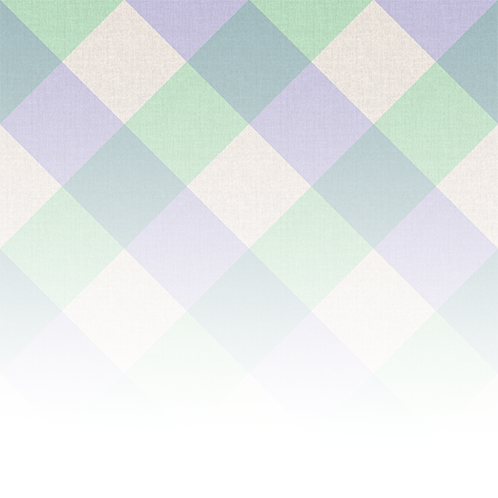
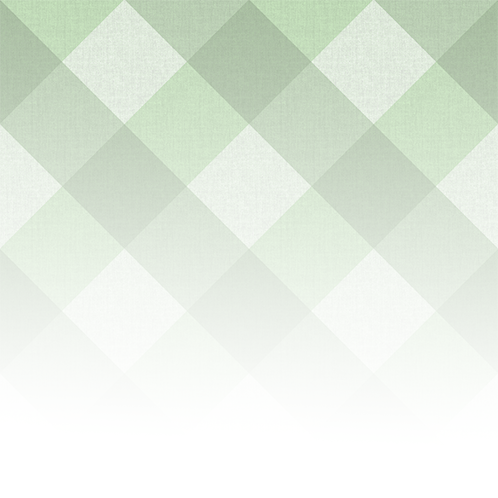
[feat] Green redesign

diff --git a/public/js/jquery.waypoints.min.js b/public/js/jquery.waypoints.min.js
@@ -1,0 +1,7 @@
+/*!
+Waypoints - 4.0.1
+Copyright © 2011-2016 Caleb Troughton
+Licensed under the MIT license.
+https://github.com/imakewebthings/waypoints/blob/master/licenses.txt
+*/
+!function(){"use strict";function t(o){if(!o)throw new Error("No options passed to Waypoint constructor");if(!o.element)throw new Error("No element option passed to Waypoint constructor");if(!o.handler)throw new Error("No handler option passed to Waypoint constructor");this.key="waypoint-"+e,this.options=t.Adapter.extend({},t.defaults,o),this.element=this.options.element,this.adapter=new t.Adapter(this.element),this.callback=o.handler,this.axis=this.options.horizontal?"horizontal":"vertical",this.enabled=this.options.enabled,this.triggerPoint=null,this.group=t.Group.findOrCreate({name:this.options.group,axis:this.axis}),this.context=t.Context.findOrCreateByElement(this.options.context),t.offsetAliases[this.options.offset]&&(this.options.offset=t.offsetAliases[this.options.offset]),this.group.add(this),this.context.add(this),i[this.key]=this,e+=1}var e=0,i={};t.prototype.queueTrigger=function(t){this.group.queueTrigger(this,t)},t.prototype.trigger=function(t){this.enabled&&this.callback&&this.callback.apply(this,t)},t.prototype.destroy=function(){this.context.remove(this),this.group.remove(this),delete i[this.key]},t.prototype.disable=function(){return this.enabled=!1,this},t.prototype.enable=function(){return this.context.refresh(),this.enabled=!0,this},t.prototype.next=function(){return this.group.next(this)},t.prototype.previous=function(){return this.group.previous(this)},t.invokeAll=function(t){var e=[];for(var o in i)e.push(i[o]);for(var n=0,r=e.length;r>n;n++)e[n][t]()},t.destroyAll=function(){t.invokeAll("destroy")},t.disableAll=function(){t.invokeAll("disable")},t.enableAll=function(){t.Context.refreshAll();for(var e in i)i[e].enabled=!0;return this},t.refreshAll=function(){t.Context.refreshAll()},t.viewportHeight=function(){return window.innerHeight||document.documentElement.clientHeight},t.viewportWidth=function(){return document.documentElement.clientWidth},t.adapters=[],t.defaults={context:window,continuous:!0,enabled:!0,group:"default",horizontal:!1,offset:0},t.offsetAliases={"bottom-in-view":function(){return this.context.innerHeight()-this.adapter.outerHeight()},"right-in-view":function(){return this.context.innerWidth()-this.adapter.outerWidth()}},window.Waypoint=t}(),function(){"use strict";function t(t){window.setTimeout(t,1e3/60)}function e(t){this.element=t,this.Adapter=n.Adapter,this.adapter=new this.Adapter(t),this.key="waypoint-context-"+i,this.didScroll=!1,this.didResize=!1,this.oldScroll={x:this.adapter.scrollLeft(),y:this.adapter.scrollTop()},this.waypoints={vertical:{},horizontal:{}},t.waypointContextKey=this.key,o[t.waypointContextKey]=this,i+=1,n.windowContext||(n.windowContext=!0,n.windowContext=new e(window)),this.createThrottledScrollHandler(),this.createThrottledResizeHandler()}var i=0,o={},n=window.Waypoint,r=window.onload;e.prototype.add=function(t){var e=t.options.horizontal?"horizontal":"vertical";this.waypoints[e][t.key]=t,this.refresh()},e.prototype.checkEmpty=function(){var t=this.Adapter.isEmptyObject(this.waypoints.horizontal),e=this.Adapter.isEmptyObject(this.waypoints.vertical),i=this.element==this.element.window;t&&e&&!i&&(this.adapter.off(".waypoints"),delete o[this.key])},e.prototype.createThrottledResizeHandler=function(){function t(){e.handleResize(),e.didResize=!1}var e=this;this.adapter.on("resize.waypoints",function(){e.didResize||(e.didResize=!0,n.requestAnimationFrame(t))})},e.prototype.createThrottledScrollHandler=function(){function t(){e.handleScroll(),e.didScroll=!1}var e=this;this.adapter.on("scroll.waypoints",function(){(!e.didScroll||n.isTouch)&&(e.didScroll=!0,n.requestAnimationFrame(t))})},e.prototype.handleResize=function(){n.Context.refreshAll()},e.prototype.handleScroll=function(){var t={},e={horizontal:{newScroll:this.adapter.scrollLeft(),oldScroll:this.oldScroll.x,forward:"right",backward:"left"},vertical:{newScroll:this.adapter.scrollTop(),oldScroll:this.oldScroll.y,forward:"down",backward:"up"}};for(var i in e){var o=e[i],n=o.newScroll>o.oldScroll,r=n?o.forward:o.backward;for(var s in this.waypoints[i]){var a=this.waypoints[i][s];if(null!==a.triggerPoint){var l=o.oldScroll<a.triggerPoint,h=o.newScroll>=a.triggerPoint,p=l&&h,u=!l&&!h;(p||u)&&(a.queueTrigger(r),t[a.group.id]=a.group)}}}for(var c in t)t[c].flushTriggers();this.oldScroll={x:e.horizontal.newScroll,y:e.vertical.newScroll}},e.prototype.innerHeight=function(){return this.element==this.element.window?n.viewportHeight():this.adapter.innerHeight()},e.prototype.remove=function(t){delete this.waypoints[t.axis][t.key],this.checkEmpty()},e.prototype.innerWidth=function(){return this.element==this.element.window?n.viewportWidth():this.adapter.innerWidth()},e.prototype.destroy=function(){var t=[];for(var e in this.waypoints)for(var i in this.waypoints[e])t.push(this.waypoints[e][i]);for(var o=0,n=t.length;n>o;o++)t[o].destroy()},e.prototype.refresh=function(){var t,e=this.element==this.element.window,i=e?void 0:this.adapter.offset(),o={};this.handleScroll(),t={horizontal:{contextOffset:e?0:i.left,contextScroll:e?0:this.oldScroll.x,contextDimension:this.innerWidth(),oldScroll:this.oldScroll.x,forward:"right",backward:"left",offsetProp:"left"},vertical:{contextOffset:e?0:i.top,contextScroll:e?0:this.oldScroll.y,contextDimension:this.innerHeight(),oldScroll:this.oldScroll.y,forward:"down",backward:"up",offsetProp:"top"}};for(var r in t){var s=t[r];for(var a in this.waypoints[r]){var l,h,p,u,c,d=this.waypoints[r][a],f=d.options.offset,w=d.triggerPoint,y=0,g=null==w;d.element!==d.element.window&&(y=d.adapter.offset()[s.offsetProp]),"function"==typeof f?f=f.apply(d):"string"==typeof f&&(f=parseFloat(f),d.options.offset.indexOf("%")>-1&&(f=Math.ceil(s.contextDimension*f/100))),l=s.contextScroll-s.contextOffset,d.triggerPoint=Math.floor(y+l-f),h=w<s.oldScroll,p=d.triggerPoint>=s.oldScroll,u=h&&p,c=!h&&!p,!g&&u?(d.queueTrigger(s.backward),o[d.group.id]=d.group):!g&&c?(d.queueTrigger(s.forward),o[d.group.id]=d.group):g&&s.oldScroll>=d.triggerPoint&&(d.queueTrigger(s.forward),o[d.group.id]=d.group)}}return n.requestAnimationFrame(function(){for(var t in o)o[t].flushTriggers()}),this},e.findOrCreateByElement=function(t){return e.findByElement(t)||new e(t)},e.refreshAll=function(){for(var t in o)o[t].refresh()},e.findByElement=function(t){return o[t.waypointContextKey]},window.onload=function(){r&&r(),e.refreshAll()},n.requestAnimationFrame=function(e){var i=window.requestAnimationFrame||window.mozRequestAnimationFrame||window.webkitRequestAnimationFrame||t;i.call(window,e)},n.Context=e}(),function(){"use strict";function t(t,e){return t.triggerPoint-e.triggerPoint}function e(t,e){return e.triggerPoint-t.triggerPoint}function i(t){this.name=t.name,this.axis=t.axis,this.id=this.name+"-"+this.axis,this.waypoints=[],this.clearTriggerQueues(),o[this.axis][this.name]=this}var o={vertical:{},horizontal:{}},n=window.Waypoint;i.prototype.add=function(t){this.waypoints.push(t)},i.prototype.clearTriggerQueues=function(){this.triggerQueues={up:[],down:[],left:[],right:[]}},i.prototype.flushTriggers=function(){for(var i in this.triggerQueues){var o=this.triggerQueues[i],n="up"===i||"left"===i;o.sort(n?e:t);for(var r=0,s=o.length;s>r;r+=1){var a=o[r];(a.options.continuous||r===o.length-1)&&a.trigger([i])}}this.clearTriggerQueues()},i.prototype.next=function(e){this.waypoints.sort(t);var i=n.Adapter.inArray(e,this.waypoints),o=i===this.waypoints.length-1;return o?null:this.waypoints[i+1]},i.prototype.previous=function(e){this.waypoints.sort(t);var i=n.Adapter.inArray(e,this.waypoints);return i?this.waypoints[i-1]:null},i.prototype.queueTrigger=function(t,e){this.triggerQueues[e].push(t)},i.prototype.remove=function(t){var e=n.Adapter.inArray(t,this.waypoints);e>-1&&this.waypoints.splice(e,1)},i.prototype.first=function(){return this.waypoints[0]},i.prototype.last=function(){return this.waypoints[this.waypoints.length-1]},i.findOrCreate=function(t){return o[t.axis][t.name]||new i(t)},n.Group=i}(),function(){"use strict";function t(t){this.$element=e(t)}var e=window.jQuery,i=window.Waypoint;e.each(["innerHeight","innerWidth","off","offset","on","outerHeight","outerWidth","scrollLeft","scrollTop"],function(e,i){t.prototype[i]=function(){var t=Array.prototype.slice.call(arguments);return this.$element[i].apply(this.$element,t)}}),e.each(["extend","inArray","isEmptyObject"],function(i,o){t[o]=e[o]}),i.adapters.push({name:"jquery",Adapter:t}),i.Adapter=t}(),function(){"use strict";function t(t){return function(){var i=[],o=arguments[0];return t.isFunction(arguments[0])&&(o=t.extend({},arguments[1]),o.handler=arguments[0]),this.each(function(){var n=t.extend({},o,{element:this});"string"==typeof n.context&&(n.context=t(this).closest(n.context)[0]),i.push(new e(n))}),i}}var e=window.Waypoint;window.jQuery&&(window.jQuery.fn.waypoint=t(window.jQuery)),window.Zepto&&(window.Zepto.fn.waypoint=t(window.Zepto))}();

diff --git a/index.html b/index.html
@@ -9,12 +9,18 @@
         crossorigin="anonymous">
     <link href="https://fonts.googleapis.com/css?family=Open+Sans" rel="stylesheet">
     <link rel="stylesheet" href="public/css/styles.css">
+    <script defer src="https://use.fontawesome.com/releases/v5.0.9/js/solid.js" integrity="sha384-P4tSluxIpPk9wNy8WSD8wJDvA8YZIkC6AQ+BfAFLXcUZIPQGu4Ifv4Kqq+i2XzrM"
+        crossorigin="anonymous"></script>
+    <script defer src="https://use.fontawesome.com/releases/v5.0.9/js/brands.js" integrity="sha384-qJKAzpOXfvmSjzbmsEtlYziSrpVjh5ROPNqb8UZ60myWy7rjTObnarseSKotmJIx"
+        crossorigin="anonymous"></script>
+    <script defer src="https://use.fontawesome.com/releases/v5.0.9/js/fontawesome.js" integrity="sha384-2IUdwouOFWauLdwTuAyHeMMRFfeyy4vqYNjodih+28v2ReC+8j+sLF9cK339k5hY"
+        crossorigin="anonymous"></script>
     <title>SABOYA</title>
 </head>
 
 <body>
     <nav class="navbar navbar-expand-lg fixed-top">
-        <a class="navbar-brand" href="#">
+        <a class="navbar-brand" href="#home">
             <img src="img/logo_only_white.png" height="32">
         </a>
         <button class="navbar-toggler" type="button" data-toggle="collapse" data-target="#navbarNavDropdown" aria-controls="navbarNavDropdown"
@@ -24,21 +30,21 @@
         <div class="collapse navbar-collapse ml-auto" id="navbarNavDropdown">
             <ul class="navbar-nav ml-auto float-right">
                 <li class="nav-item">
-                    <a class="nav-link" href="#">Home</a>
+                    <a id="home-link" class="nav-link nav__link" href="#home">Home</a>
                 </li>
                 <li class="nav-item">
-                    <a class="nav-link" href="#">Works</a>
+                    <a id="services-link" class="nav-link nav__link" href="#services">Services</a>
                 </li>
                 <li class="nav-item">
-                    <a class="nav-link" href="#">About</a>
+                    <a id="portfolio-link" class="nav-link nav__link" href="#portfolio">Portfolio</a>
                 </li>
                 <li class="nav-item">
-                    <a class="nav-link" href="#">Contact</a>
+                    <a id="contact-link" class="nav-link nav__link" href="#contact">Contact</a>
                 </li>
             </ul>
         </div>
     </nav>
-    <section class="section section--main section--centered">
+    <section id="home" class="section section--main section--centered">
         <div class="container">
             <div class="row justify-content-center">
                 <div class="col-md-8">
@@ -48,7 +54,7 @@
             <div class="row justify-content-center section__description">
                 <div class="col-md-8">
                     <div class="effect__fade-in effect__slide-up">
-                        <h1>I need money, you need a website.</h1>
+                        <h1>Web-based solutions, tailored to you</h1>
                         <p>Lorem ipsum dolor sit amet, consectetur adipiscing elit, sed do eiusmod tempor incididunt ut labore
                             et dolore magna aliqua. Ut enim ad minim veniam, quis nostrud exercitation ullamco laboris nisi
                             ut aliquip ex ea commodo consequat.</p>
@@ -57,29 +63,30 @@
             </div>
         </div>
     </section>
-    <section class="section section--green">
+    <section id="services" class="section section--white section--centered">
         <div class="container">
-            <div class="row">
-                <div class="col-md-5 align-self-center">
-                    <h2>Lorem ipsum valid</h2>
-                    <p>"Lorem ipsum dolor sit amet, consectetur adipiscing elit, sed do eiusmod tempor incididunt ut labore
-                        et dolore magna aliqua. Ut enim ad minim veniam, quis nostrud exercitation ullamco laboris nisi ut
-                        aliquip ex ea commodo consequat. Duis aute irure dolor in reprehenderit in voluptate velit esse cillum
-                        dolore eu fugiat nulla pariatur. Excepteur sint occaecat cupidatat non proident, sunt in culpa qui
-                        officia deserunt mollit anim id est laborum."</p>
-                </div>
-                <div class="col-md-7">
-                    <img id="laptop" class="section__image effect__appear effect__appear--left" src="img/macbook.png">
-                </div>
-            </div>
-        </div>
-    </section>
-    <section class="section section--purple">
-        <div class="container">
+            <h2 class="section__title">SERVICES</h2>
             <div class="row justify-content-center">
                 <div class="col-md-3">
-                    <img id="phone" class="section__image effect__appear effect__appear--right" src="img/phone.png">
+                    <div id="back-end-icon" class="effect__appear effect__appear--left">
+                        <i class="fas fa-server fa-5x section__icon" data-fa-transform="shrink-4"></i>
+                        <p class="section__text">Back-end development</p>
+                    </div>
                 </div>
+                <div class="col-md-3">
+                    <div id="front-end-icon" class="effect__appear effect__appear--right">
+                        <i class="fas fa-desktop fa-5x section__icon" data-fa-transform="shrink-4"></i>
+                        <p class="section__text">Front-end development</p>
+                    </div>
+                </div>
+            </div>
+        </div>
+        </div>
+    </section>
+    <section id="portfolio" class="section section--green">
+        <div class="container">
+            <h2 class="section__title">PORTFOLIO</h2>
+            <div class="row justify-content-center">
                 <div class="col-md-6 align-self-center">
                     <h2>Lorem ipsum valid</h2>
                     <p>"Lorem ipsum dolor sit amet, consectetur adipiscing elit, sed do eiusmod tempor incididunt ut labore
@@ -91,15 +98,19 @@
             </div>
         </div>
     </section>
-    <section class="section section--centered section--lime">
+    <section id="contact" class="section section--white">
         <div class="container">
             <div class="row justify-content-center">
-                <div class="col-md-6 align-self-center">
-                    <div id="middle" class="effect__appear effect__appear--left">
-                        <h2>Title in the middle</h2>
-                        <p>Lorem ipsum dolor sit amet, consectetur adipiscing elit, sed do eiusmod tempor incididunt ut labore
-                            et dolore magna aliqua.</p>
-                    </div>
+                <div class="col-md-3  align-self-center">
+                    <h2 class="section__title">CONTACT</h2>
+                    <p>
+                        <a href="mailto:contact@saboya.com" class="section__link--green">
+                            <i class="fas fa-envelope"></i> contact@saboya.com</a>
+                    </p>
+                    <p>
+                        <a href="#" class="section__link--green">
+                            <i class="fab fa-skype"></i> saboya</a>
+                    </p>
                 </div>
             </div>
         </div>

diff --git a/public/js/general.js b/public/js/general.js
@@ -1,3 +1,14 @@
+$(document).on("click", 'a[href^="#"]', function(event) {
+  event.preventDefault();
+
+  $("html, body").animate(
+    {
+      scrollTop: $($.attr(this, "href")).offset().top
+    },
+    500
+  );
+});
+
 window.onload = function() {
   $(".effect__fade-in")
     .css("visibility", "visible")
@@ -13,45 +24,41 @@ window.onload = function() {
 };
 
 function appearLeft() {
-    $("#" + this.element.id)
-      .animate(
-        {
-          opacity: 1,
-          left: "0%"
-        },
-        { duration: 2000, queue: false }
-      );
+  $("#" + this.element.id).animate(
+    {
+      opacity: 1,
+      left: "0%"
+    },
+    { duration: 2000, queue: false }
+  );
 
-    this.destroy();
-};
+  this.destroy();
+}
 
 function appearRight() {
-    $("#" + this.element.id)
-      .animate(
-        {
-          opacity: 1,
-          right: "0%"
-        },
-        { duration: 2000, queue: false }
-      );
+  $("#" + this.element.id).animate(
+    {
+      opacity: 1,
+      right: "0%"
+    },
+    { duration: 2000, queue: false }
+  );
 
-    this.destroy();
-};
+  this.destroy();
+}
 
-const appearRightWaypoints = $(".effect__appear--right").map(
-  function() {
-    new Waypoint({
-      element: document.getElementById(this.id),
-      handler: appearRight,
-      offset: "75%"
-    }); }
-
-);
+const appearRightWaypoints = $(".effect__appear--right").map(function() {
+  new Waypoint({
+    element: document.getElementById(this.id),
+    handler: appearRight,
+    offset: "90%"
+  });
+});
 
 const appearLeftWaypoints = $(".effect__appear--left").map(function() {
   new Waypoint({
     element: document.getElementById(this.id),
     handler: appearLeft,
-    offset: "75%"
+    offset: "90%"
   });
 });

diff --git a/public/css/styles.css b/public/css/styles.css
@@ -1,20 +1,27 @@
 body {
-    background-color: #568187;
+    background-color: #5E8C61;
     background-image: url("/img/pattern.png");
     background-repeat: repeat-x;
 }
 
-a {
+nav {
+    background-color: rgba(94,140,97, 0.75);
+}
+
+.nav__link {
     color: white;
 }
 
-nav {
-    background-color: rgba(86,129,135, 0.75);
+.nav__link:hover {
+    color: darkgreen;
 }
 
 footer {
+    padding-top: 10px;
+    padding-bottom: 10px;
     text-align:center;
-    color: white;
+    background-color:white;
+    color: #5E8C61;
 }
 
 h1 {
@@ -54,8 +61,8 @@ h1 {
 }
 
 .section {
-    padding-top: 15px;
-    padding-bottom: 15px;
+    padding-top: 30px;
+    padding-bottom: 30px;
 }
 
 .section--main {
@@ -64,18 +71,13 @@ h1 {
     color: white;
 }
 
+.section--white {
+    background-color: white;
+    color: #5E8C61;
+}
+
 .section--green {
-    background-color: #568187;
-    color: white;
-}
-
-.section--purple {
-    background-color: #968fc0;
-    color: white;
-}
-
-.section--lime {
-    background-color: #83c08c;
+    background: linear-gradient(0deg,#5E8C61, #78b07b);
     color: white;
 }
 
@@ -83,8 +85,20 @@ h1 {
     text-align: center;
 }
 
+.section__title {
+    text-align: center;
+    margin-bottom: 25px;
+}
+
+.section__icon {
+    background: linear-gradient(-45deg,#5E8C61 50%, #6b9f6e 50%);
+    border-radius: 10px;
+    color: white;
+}
+
 .section__text {
-    padding-bottom: 20px;
+    margin-top: 20px;
+    margin-bottom: 20px;
 }
 
 .section__logo {
@@ -100,6 +114,15 @@ h1 {
 
 .section__image--centered {
     text-align: center;
+}
+
+.section__link--green {
+    color: #5E8C61;
+}
+
+.section__link--green:hover {
+    color: darkgreen;
+    text-decoration: none;
 }
 
 .section__description {

diff --git a/public/js/inview.min.js b/public/js/inview.min.js
@@ -1,0 +1,7 @@
+/*!
+Waypoints Inview Shortcut - 4.0.1
+Copyright © 2011-2016 Caleb Troughton
+Licensed under the MIT license.
+https://github.com/imakewebthings/waypoints/blob/master/licenses.txt
+*/
+!function(){"use strict";function t(){}function e(t){this.options=i.Adapter.extend({},e.defaults,t),this.axis=this.options.horizontal?"horizontal":"vertical",this.waypoints=[],this.element=this.options.element,this.createWaypoints()}var i=window.Waypoint;e.prototype.createWaypoints=function(){for(var t={vertical:[{down:"enter",up:"exited",offset:"100%"},{down:"entered",up:"exit",offset:"bottom-in-view"},{down:"exit",up:"entered",offset:0},{down:"exited",up:"enter",offset:function(){return-this.adapter.outerHeight()}}],horizontal:[{right:"enter",left:"exited",offset:"100%"},{right:"entered",left:"exit",offset:"right-in-view"},{right:"exit",left:"entered",offset:0},{right:"exited",left:"enter",offset:function(){return-this.adapter.outerWidth()}}]},e=0,i=t[this.axis].length;i>e;e++){var n=t[this.axis][e];this.createWaypoint(n)}},e.prototype.createWaypoint=function(t){var e=this;this.waypoints.push(new i({context:this.options.context,element:this.options.element,enabled:this.options.enabled,handler:function(t){return function(i){e.options[t[i]].call(e,i)}}(t),offset:t.offset,horizontal:this.options.horizontal}))},e.prototype.destroy=function(){for(var t=0,e=this.waypoints.length;e>t;t++)this.waypoints[t].destroy();this.waypoints=[]},e.prototype.disable=function(){for(var t=0,e=this.waypoints.length;e>t;t++)this.waypoints[t].disable()},e.prototype.enable=function(){for(var t=0,e=this.waypoints.length;e>t;t++)this.waypoints[t].enable()},e.defaults={context:window,enabled:!0,enter:t,entered:t,exit:t,exited:t},i.Inview=e}();
